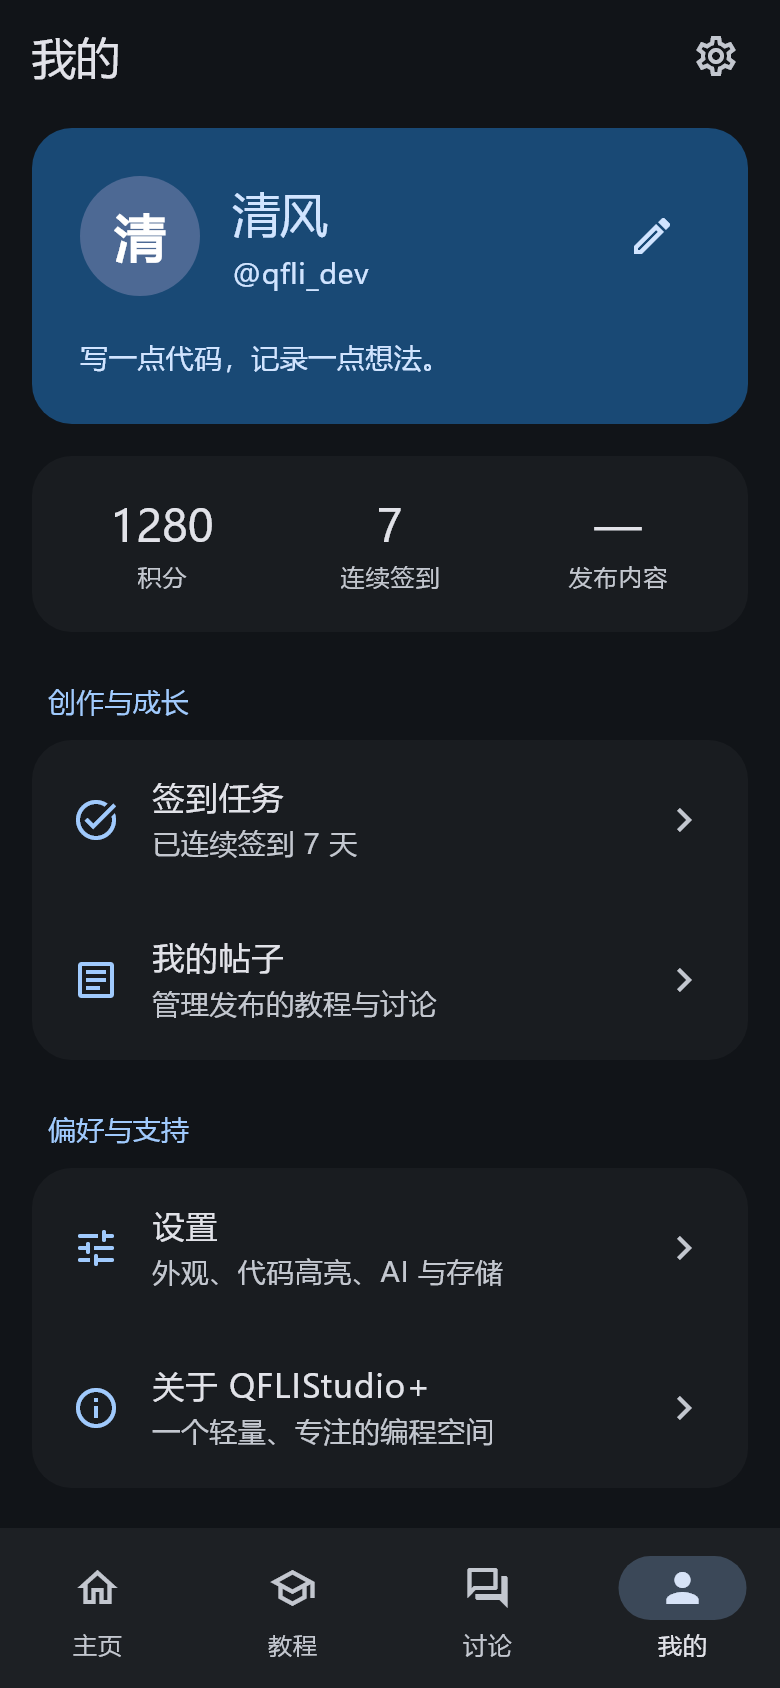
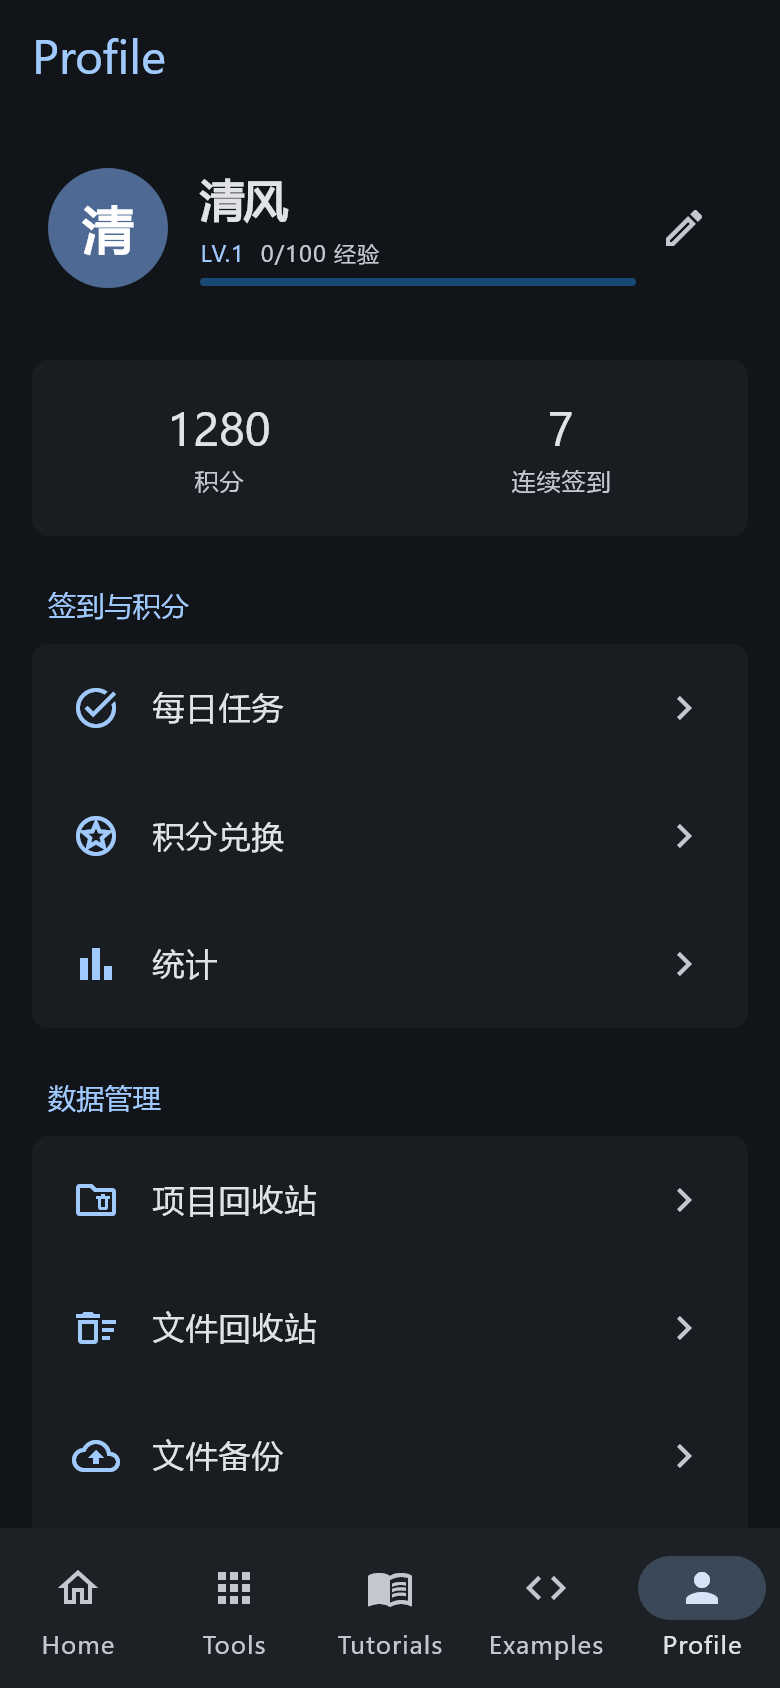
docs: add the device check notes and refresh the previews

diff --git a/tool/agent_workbench_device.md b/tool/agent_workbench_device.md
@@ -1,0 +1,78 @@
+# 鸿蒙真机：打包、安装、截图
+
+两份脚本：
+
+| 脚本 | 作用 |
+| --- | --- |
+| `tool/build_studio_hap.sh` | 命令行打 studio 本体的 HAP 包 |
+| `tool/device_ui.sh` | 封装 hdc：装包、启动、截图、点击、输入、返回、读日志 |
+
+## 打包
+
+```bash
+tool/build_studio_hap.sh              # debug
+tool/build_studio_hap.sh --release    # release，需要 build-profile.json5 里的 releaseKey
+```
+
+- 自动使用 DevEco 自带 JBR（`$DEVECO_HOME/jbr`）作为 `JAVA_HOME`，系统没装 JDK 17 也能编。
+- 不带 `--parallel`：2C 小机器上并行编译会抢内存，串行更稳。
+- 前提：studio 根目录跑过 `flutter pub get`；`ohos/.hvigor/cache` 至少 Sync 过一次。
+- 产物：`ohos/entry/build/default/outputs/default/entry-default-signed.hap`
+
+## 依赖的内核仓库（集成时必看）
+
+`pubspec.yaml` 里 `qfli_studio_core` 指向 `../qfli_studio_core`。要打包**集成分支**的内核，
+在 studio 根目录放一个未跟踪的 `pubspec_overrides.yaml`：
+
+```yaml
+dependency_overrides:
+  qfli_studio_core:
+    path: ../_wt/integration/qfli_studio_core
+```
+
+它**必须不被提交**。本仓库已把它写进 `.git/info/exclude`（本地忽略，不改 `.gitignore`）。
+确认一遍：
+
+```bash
+git check-ignore -v pubspec_overrides.yaml
+# .git/info/exclude:23:pubspec_overrides.yaml	pubspec_overrides.yaml
+git status --short            # 不应出现 pubspec_overrides.yaml
+```
+
+打包前脚本会打印实际使用的内核路径；看到 `_wt` 说明用的是 worktree 里的内核。
+集成完成后删掉这个文件，回到 `../qfli_studio_core`。
+
+## 真机操作
+
+```bash
+export HDC_TARGET=$(hdc list targets | head -1)   # 例如 192.168.68.207:46551
+export SHOT_DIR=./screenshots                     # 不设就用 ./screenshots
+
+tool/device_ui.sh targets            # 看设备
+tool/device_ui.sh install            # 装 entry-default-signed.hap
+tool/device_ui.sh launch             # 拉起 com.azurekiln.qflistudio
+tool/device_ui.sh shot 02-editor     # 截图到 $SHOT_DIR/02-editor.png
+tool/device_ui.sh layout 02-editor   # 导出布局 JSON，用来找坐标
+tool/device_ui.sh tap 640 1200       # 点击
+tool/device_ui.sh swipe 636 2500 636 900   # 滑动
+tool/device_ui.sh text "你好"         # 往已聚焦的输入框打字
+tool/device_ui.sh input 640 2400 "你好"    # 先点坐标再打字
+tool/device_ui.sh back               # 返回
+tool/device_ui.sh log 30             # 抓 30 秒 hilog，只显示 [agent-perf]
+```
+
+## 两个坑
+
+1. **Git Bash 会改写参数**。MSYS 会把 `hdc file recv` 的设备路径
+   `/data/local/tmp/x.png` 改写成 `D:/ProgramFiles/Git/data/local/tmp/x.png`，
+   而 hdc 即使找不到源文件仍返回 0。脚本里已设 `MSYS2_ARG_CONV_EXCL='*'`，
+   并额外检查本地文件是否真的落地。自己手敲命令时要记得这一点。
+2. **锁屏状态下 `aa start` 会失败**，报
+   `Error Code:10106102 ... The device screen is locked`，开发者模式下系统不会自动解锁。
+   自动化无法通过人脸或 PIN。跑全流程前先手动解锁一次，并先拉长息屏时间：
+
+   ```bash
+   tool/device_ui.sh screen-on 600000   # 10 分钟内不自动息屏
+   ```
+
+   `keyEvent Power` 是开关，亮屏时按会反而黑屏；要亮屏用 `tool/device_ui.sh wake`。
